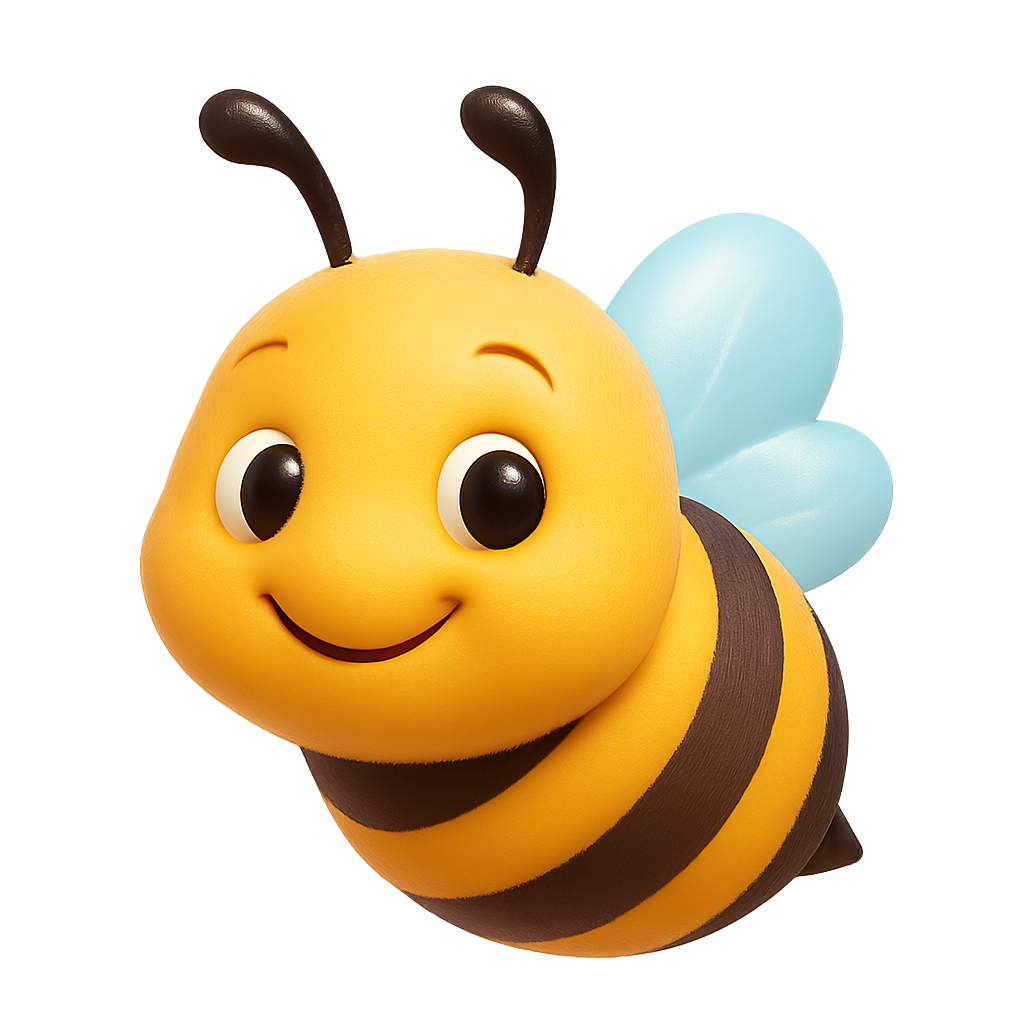
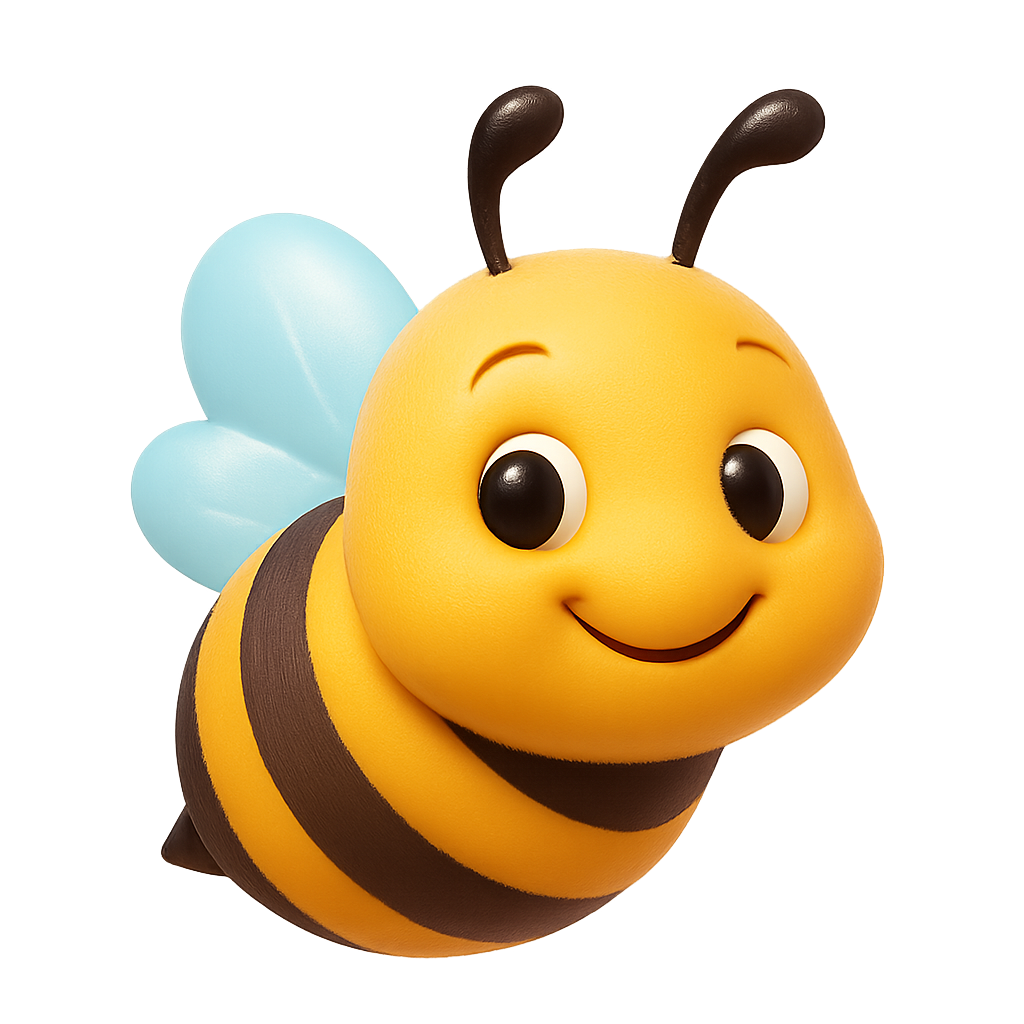
added daylight shift feature to change the background, as well as Readme.md enhance

diff --git a/src/App.js b/src/App.js
@@ -1,42 +1,45 @@
 import './App.css';
 import { useState } from "react";
-import backgroundImage from './media/7DK_web_bg2.png';
-import srcBee1 from './media/7dk_abeja.png';
-import srcCatarina2 from './media/abeja_7DK2.png';
+import dayShiftBg1 from './media/7DK_web_bg2.png';
+import beeDayShift from './media/7dk_abeja.png';
+import catarinaDayShift from './media/abeja_7DK2.png';
+import nightShiftBg from './media/7dkNoche.png';
+import starNightShift from './media/7dk_star.png';
+import moonNightShift from './media/7dk_Moon.png';
 import srcLogo from './media/Logo7DatosLids100x100.png';
 import butterFly from './media/Mariposa7DK_1.png';
+import dayShiftBg2 from './media/7dkDia.png';
 import { motion } from 'framer-motion';
 
 export default function App() {
+	const isDayLight = () => {
+		const hour = new Date().getHours();
+		const dayShift = hour >= 6 && hour < 18 ? true : false;
+		return dayShift
+	}
+	
 	const [hoveredItem, setHoveredItem] = useState(null);
 	const elements = [
 		{
 			id: "bee",
 			name: "Bee",
-			src: srcBee1,
-			style: "bottom-20 right-20 animate-floatRandomTwo",
+			src: isDayLight() ? beeDayShift : starNightShift,
+			style: "top-20 left-5 animate-floatRandomTwo",
 			width: "w-20 sm:w-32"
 		},
 		{
 			id: "catarina",
 			name: "Catarina",
-			src: srcCatarina2,
-			style: "top-20 right-10 animate-floatSlow",
+			src: isDayLight() ? catarinaDayShift : moonNightShift,
+			style: "top-20 right-7 animate-floatSlow",
 			width: "w-20 sm:w-40"
-		},
-		// {
-		// 	id: "butterfly",
-		// 	name: "ButterFly",
-		// 	src: butterFly,
-		// 	style: "bottom-30 left-20 animate-floatWiggle",
-		// 	width: "w-20 sm:w-40"
-		// },
+		}
 	];
 
 	return (
 		<div 
 			className="w-full h-screen bg-cover bg-center relative overflow-hidden" 
-			style={{ backgroundImage: `url(${backgroundImage})` }}>
+			style={{ backgroundImage: `url(${isDayLight() ? dayShiftBg1 : nightShiftBg})` }}>
 				<div className="flex items-center justify-center w-100">
 					<img src={srcLogo} alt="Logo 7 Datos Kids" className="absolute top-10 animate-floatWiggle w-40 sm:w-50" />
 				</div>

diff --git a/README.md b/README.md
@@ -1,1 +1,78 @@
-# 7datoskids
+# 7datoskids 🎈
+
+An interactive landing page for children, built with React and TailwindCSS.  
+It features animations, draggable floating elements, and automatic deployment via Vercel.
+
+## 🚀 Live Demo  
+https://7datoskids.vercel.app
+
+---
+
+## 🛠 Technologies Used
+
+- ⚛ React (Create React App)
+- 🎨 TailwindCSS
+- 🐝 Framer Motion (drag & drop functionality)
+- 📦 Vercel (free hosting)
+
+---
+
+## 📦 Local Installation
+
+```bash
+git clone https://github.com/axpunto/7datoskids.git
+cd 7datoskids
+npm install
+npm start
+```
+
+> The site will be available at http://localhost:3000
+
+---
+
+## 🧪 Useful Scripts
+
+```bash
+npm start        # Local development
+npm run build    # Production build
+```
+
+---
+
+## 🌐 Deployment on Vercel
+
+This project is automatically deployed on every `git push` to the `main` branch through integration with [Vercel](https://vercel.com/).
+
+### ⚙ Vercel Configuration:
+- **Framework Preset**: Create React App
+- **Build Command**: `react-scripts build`
+- **Output Directory**: `build`
+
+---
+
+## 📁 Project Structure
+
+```
+├── public/
+├── src/
+│   ├── assets/         # Images and floating elements
+│   ├── components/     # Reusable components (coming soon)
+│   └── App.js
+├── tailwind.config.js
+├── .gitignore
+└── README.md
+```
+
+---
+
+## 🙌 Contributions
+
+Got a fun idea?  
+Open an issue or submit a pull request!  
+This project is an educational and creative experiment to spark curiosity in children. 🧠🌈
+
+---
+
+## 📄 License
+
+MIT © 2025 [axpunto](https://github.com/axpunto)
